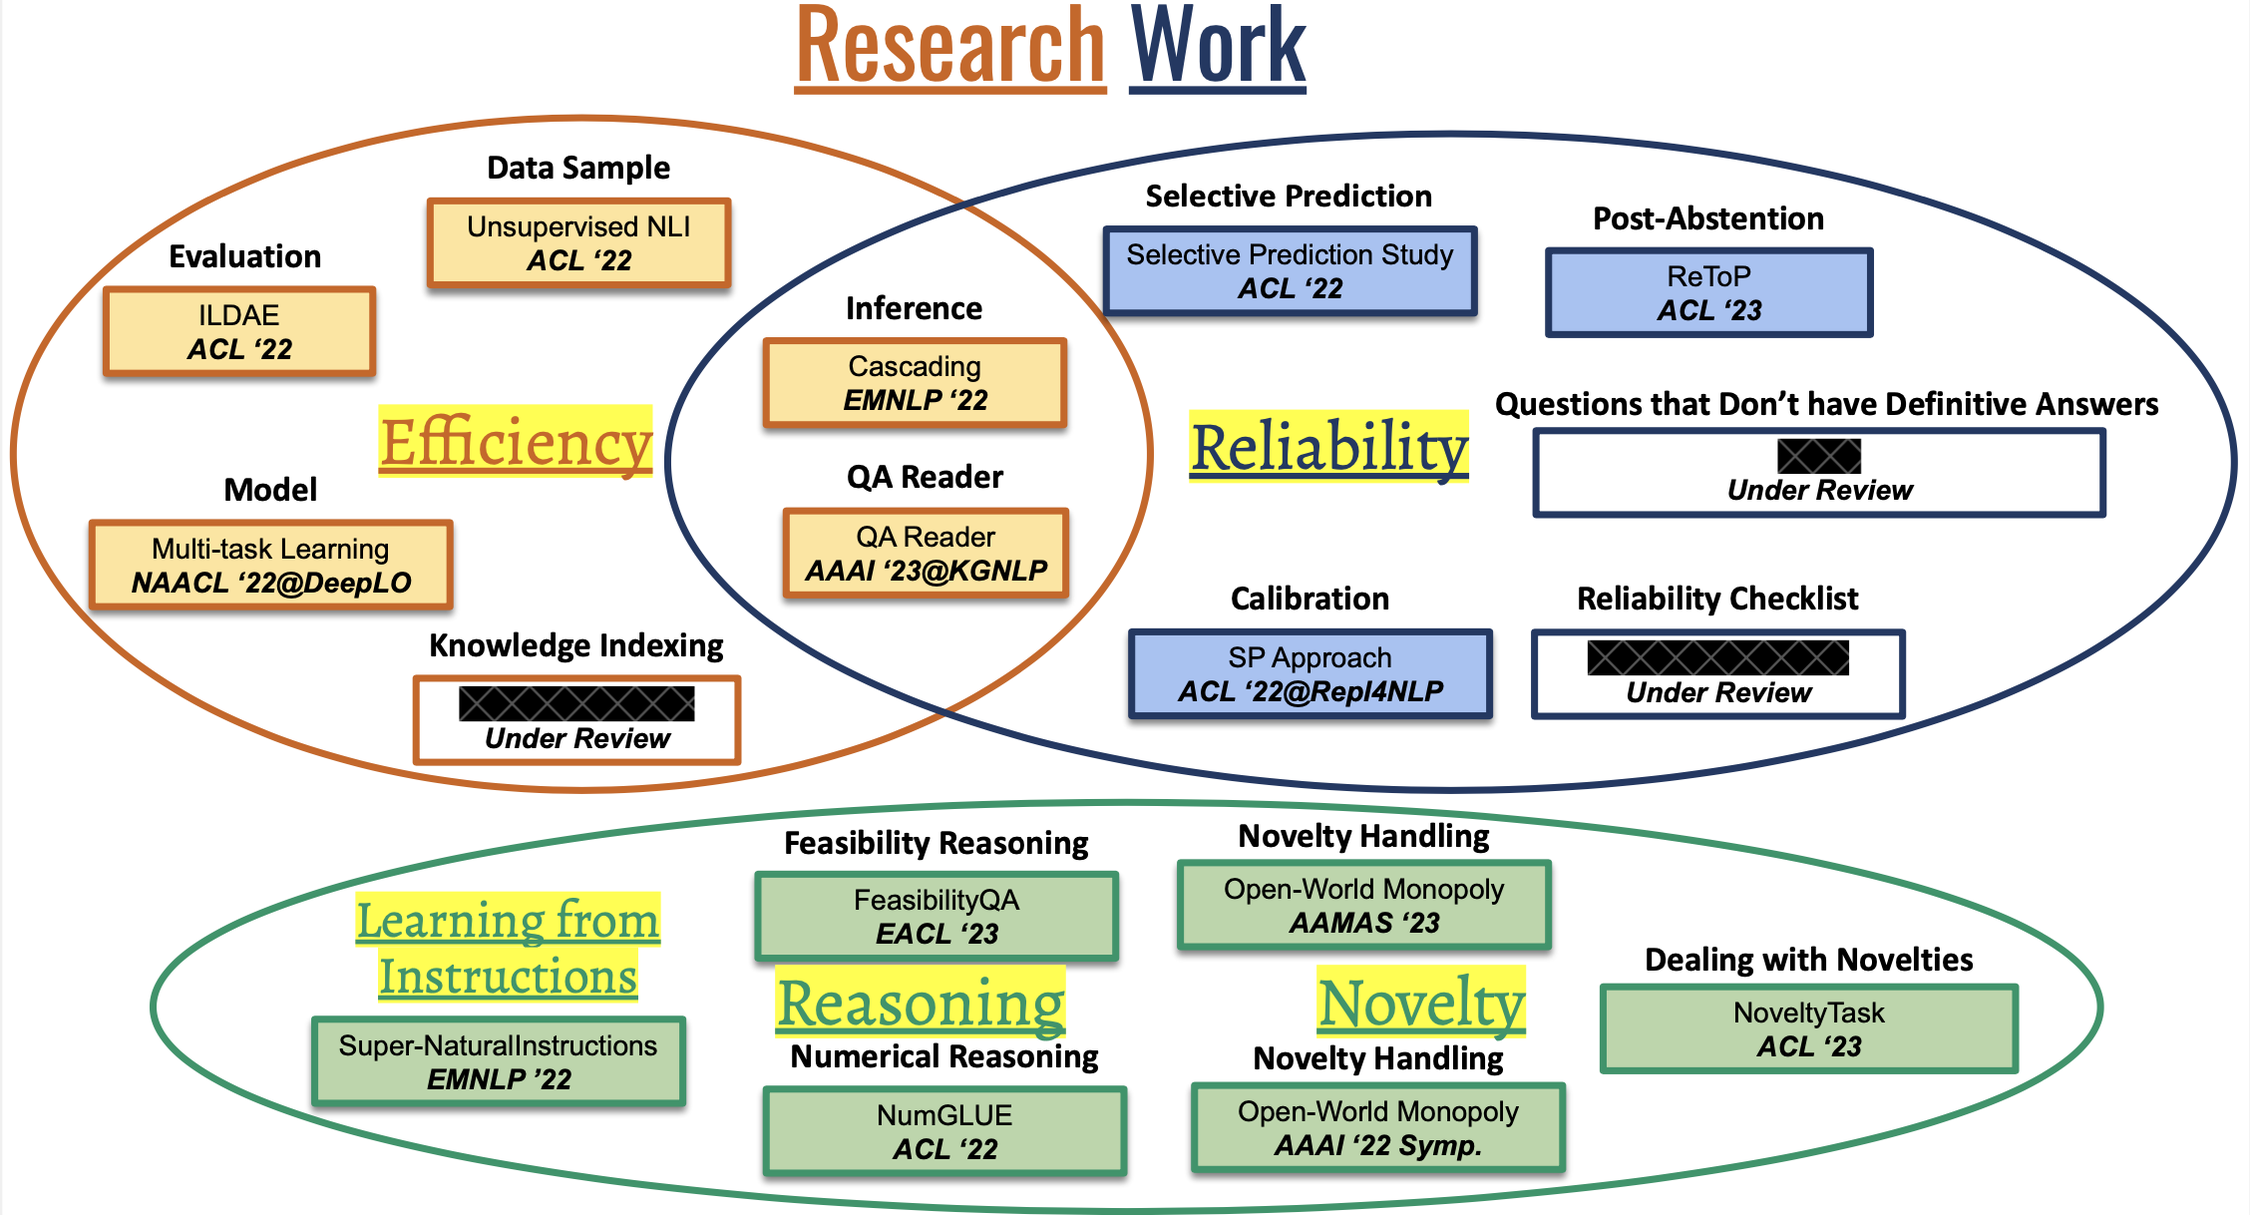
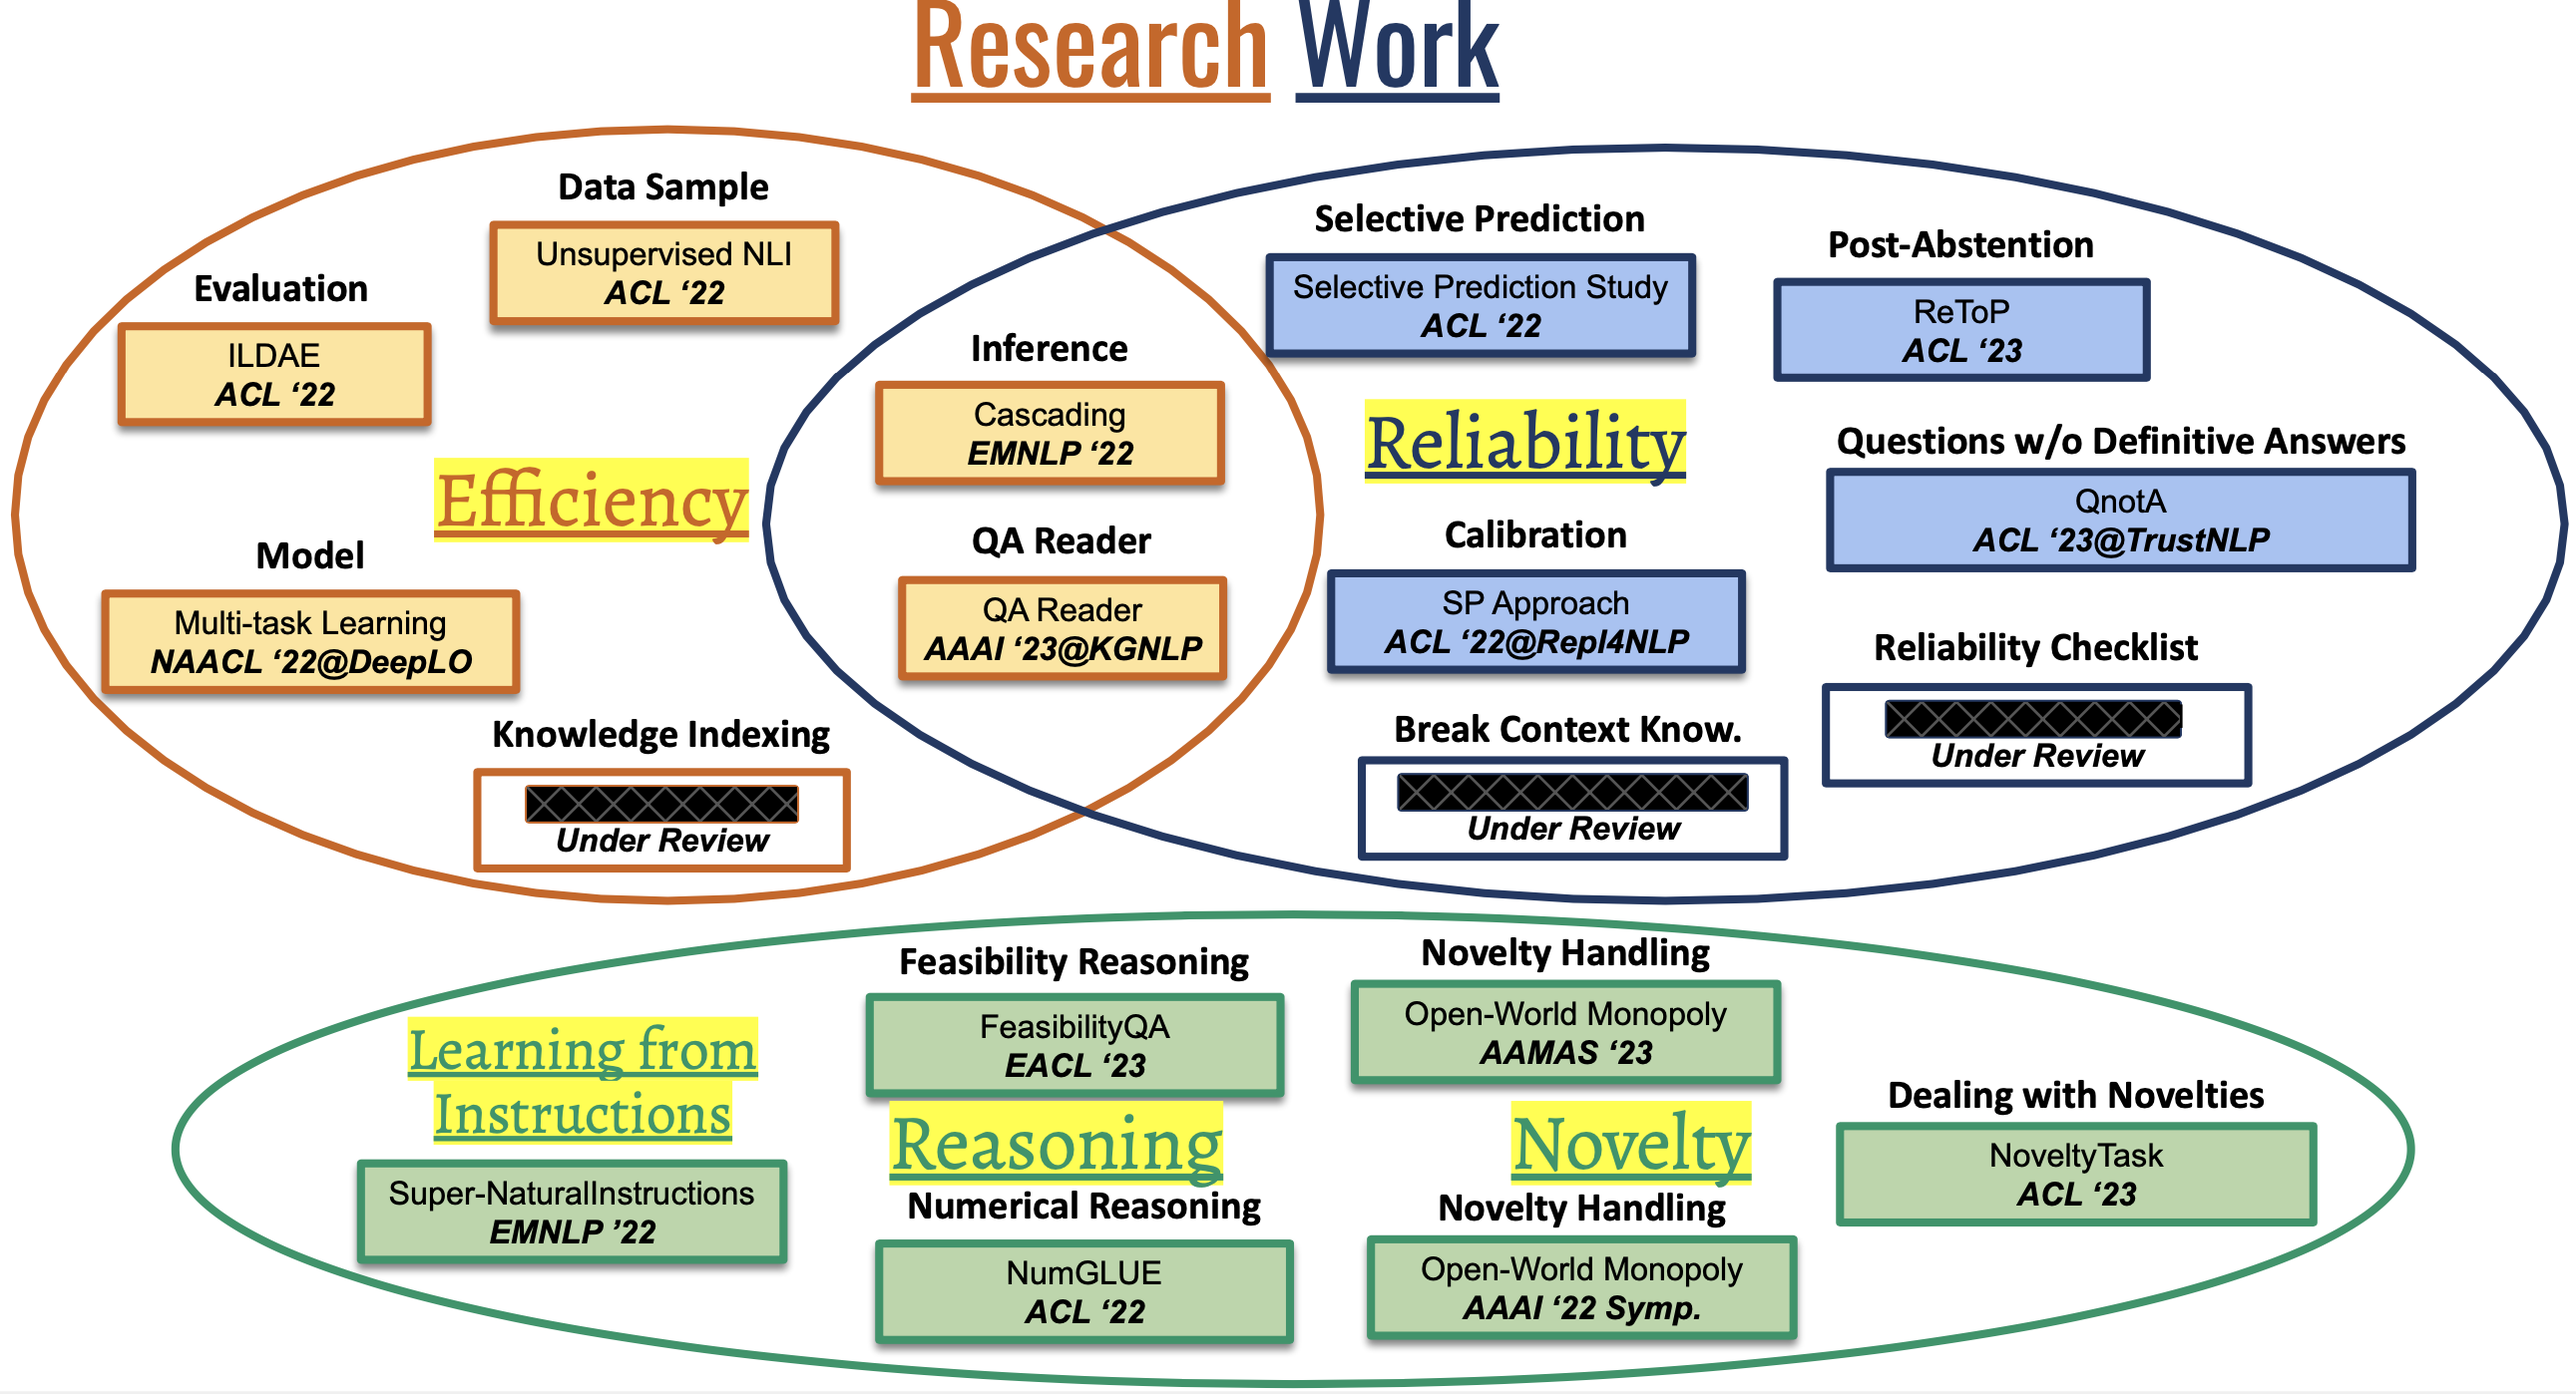
adding news

diff --git a/cv/index.html b/cv/index.html
@@ -145,7 +145,7 @@
 								
 								<h6 class="title font-weight ml-1 ml-md-4">I work in Natural Language Processing, primarily in the areas of <b>Open-domain QA</b>, <b>Natural Language Inference</b>, <b>Retrieval augmented inference</b>, addressing different <b>Efficiency</b> & <b>Reliability</b> aspects of NLP systems, <b>Reasoning</b> and <b>Natural Language Understanding</b> in general. <br><br>
  								
- 								On the efficiency topic, I have worked on improving <b>inference efficiency</b>, training <b>sample efficiency</b>, QA <b>reader efficiency</b>, <b>knowledge indexing efficiency</b>, and <b>evaluation efficiency</b>. Furthermore, on the reliability topic, I have worked on <b>selective prediction</b>, <b>post-abstention</b>, and <b>calibration</b>. 
+ 								On the efficiency topic, I have worked on improving <b>inference efficiency</b>, training <b>sample efficiency</b>, QA <b>reader efficiency</b>, <b>knowledge indexing efficiency</b>, and <b>evaluation efficiency</b>. Furthermore, on the reliability topic, I have worked on <b>selective prediction</b>, <b>post-abstention</b>, <b>calibration</b> and <b>mitigating model hallucinations</b>.</br></br> 
 								</h6>
 								<!-- <p style="text-align:center;">
 									<img height="300px" src="../assets/img/research.png" />
@@ -187,7 +187,7 @@
 
 								
 							<div class="col-xs-10 cl-sm-10 col-md mt-2 mt-md-0">								
-								<h6 class="title font-weight ml-1 ml-md-4">2022 (4 + 1 W) & 2023 (2)
+								<h6 class="title font-weight ml-1 ml-md-4">2022 (4 Conference + 1 Workshop) </br> 2023 (2 Conference + 1 Workshop)
 								</h6>																	
 							</div>
 
@@ -206,7 +206,7 @@
 
 								
 							<div class="col-xs-10 cl-sm-10 col-md mt-2 mt-md-0">								
-								<h6 class="title font-weight ml-1 ml-md-4">2022 (2)
+								<h6 class="title font-weight ml-1 ml-md-4">2022 (2 Conference)
 								</h6>																	
 							</div>
 							
@@ -226,7 +226,7 @@
 
 								
 							<div class="col-xs-10 cl-sm-10 col-md mt-2 mt-md-0">								
-								<h6 class="title font-weight ml-1 ml-md-4">2023 (1)
+								<h6 class="title font-weight ml-1 ml-md-4">2023 (1 Conference)
 								</h6>																	
 							</div>
 							
@@ -246,7 +246,7 @@
 
 								
 							<div class="col-xs-10 cl-sm-10 col-md mt-2 mt-md-0">								
-								<h6 class="title font-weight ml-1 ml-md-4">2022 (1 W)
+								<h6 class="title font-weight ml-1 ml-md-4">2022 (1 Workshop)
 								</h6>																	
 							</div>
 							
@@ -265,7 +265,7 @@
 
 								
 							<div class="col-xs-10 cl-sm-10 col-md mt-2 mt-md-0">								
-								<h6 class="title font-weight ml-1 ml-md-4">2022 (1 W) & 2023 (1 W)
+								<h6 class="title font-weight ml-1 ml-md-4">2022 (1 Workshop) </br> 2023 (1 Workshop)
 								</h6>																	
 							</div>
 							
@@ -285,7 +285,7 @@
 
 								
 							<div class="col-xs-10 cl-sm-10 col-md mt-2 mt-md-0">								
-								<h6 class="title font-weight ml-1 ml-md-4">2023 (1)
+								<h6 class="title font-weight ml-1 ml-md-4">2023 (1 Conference)
 								</h6>																	
 							</div>
 							
@@ -317,6 +317,8 @@
 													<b>Question Answering</b> <br> 
 													<b>Open-domain QA</b> <br> 													
 													<b>Selective Prediction</b>  <br> 
+													<b>Retrieval Augmented Inference</b> <br> 
+													<b>Mitigating Model Hallucinations</b> <br> 
 													<b>Multitask Learning</b> <br> 
 												  <b>Robustness</b> <br> 
 												  <b>Generalization</b> <br> 
@@ -483,6 +485,38 @@
 			<div>
 			
 				<ul class="card-text font-weight-light list-group list-group-flush">
+					<li class="list-group-item">
+						<div class="row">
+							
+								<div class="col-xs-2 cl-sm-2 col-md-auto text-left" style="width: 75px;">
+									<span class="badge font-weight-bold danger-color-dark text-uppercase align-middle" style="width: 90px;">
+										Summer<br>2023
+									</span>
+								</div>
+							
+							<div class="col-xs-10 cl-sm-10 col-md mt-2 mt-md-0">
+								
+								<h6 class="title font-weight-bold ml-1 ml-md-4">NLP Research Intern <br />Tencent AI</h6>
+								
+								
+									<!-- <ul class="items">
+										
+											<li>
+												
+													<span class="item">Alexa AI ‐ Web Question Answering</span>
+												
+											</li>
+										
+											
+										
+									</ul> -->
+								
+								
+							</div>
+						</div>
+					</li>
+
+
 					<li class="list-group-item">
 						<div class="row">
 							

diff --git a/index.html b/index.html
@@ -147,7 +147,7 @@
 
       I work in Natural Language Processing, primarily in the areas of <u>Open-domain QA</u>, <u>Natural Language Inference</u>, <u>Retrieval augmented inference</u>, addressing different <u>Efficiency</u> & <u>Reliability</u> aspects of NLP systems, and <u>Natural Language Understanding</u> in general. <br> <br>
   
-      On the efficiency topic, I have worked on improving <u>inference efficiency</u>, training <u>sample efficiency</u>, <u>QA reader efficiency</u>, <u>knowledge indexing efficiency</u>, and <u>evaluation efficiency</u>. Furthermore, on the reliability topic, I have worked on <u>selective prediction</u>. <br> <br>
+      On the efficiency topic, I have worked on improving <u>inference efficiency</u>, training <u>sample efficiency</u>, <u>QA reader efficiency</u>, <u>knowledge indexing efficiency</u>, and <u>evaluation efficiency</u>. Furthermore, on the reliability topic, I have worked on <u>selective prediction</u>, <u>post-abstention</u>, <u>calibration</u>, and <u>mitigating model hallucinations</u>. <br> <br>
   
       
 
@@ -175,9 +175,19 @@
 <div class="news mt-3 p-0">
   <h1 class="title mb-4 p-0">News</h1>
 
+    <div class="row p-0">      
+      <div class="col-sm-2 p-0">
+        <span class="badge danger-color-dark font-weight-bold text-uppercase align-middle date ml-3">
+         May 22, 2023
+        </span>
+      </div>
+      <div class="col-sm-10 mt-2 mt-sm-0 ml-3 ml-md-3 p-0 font-weight-light text">
+        <p>Started NLP Research Internship at Tencent AI, Bellevue.
+        </p>
+      </div>
+    </div>
 
-
-  <div class="row p-0">
+    <div class="row p-0">      
       <div class="col-sm-2 p-0">
         <span class="badge danger-color-dark font-weight-bold text-uppercase align-middle date ml-3">
          May 2, 2023
@@ -185,6 +195,18 @@
       </div>
       <div class="col-sm-10 mt-2 mt-sm-0 ml-3 ml-md-3 p-0 font-weight-light text">
         <p>My two papers got accepted to <a href="https://2023.aclweb.org/" target="_blank">ACL 2023</a>. One paper is on improving the "<b>reliability of QA systems</b>" and the other one on "<b>addressing novelties in an NLP task</b>". Will share more details soon.
+        </p>
+      </div>
+    </div>
+
+    <div class="row p-0">
+      <div class="col-sm-2 p-0">
+        <span class="badge danger-color-dark font-weight-bold text-uppercase align-middle date ml-3">
+         May, 2023
+        </span>
+      </div>
+      <div class="col-sm-10 mt-2 mt-sm-0 ml-3 ml-md-3 p-0 font-weight-light text">
+        <p>My paper got accepted to <a href="https://trustnlpworkshop.github.io/" target="_blank">TrustNLP workshop @ ACL 2023</a>.
         </p>
       </div>
     </div>
